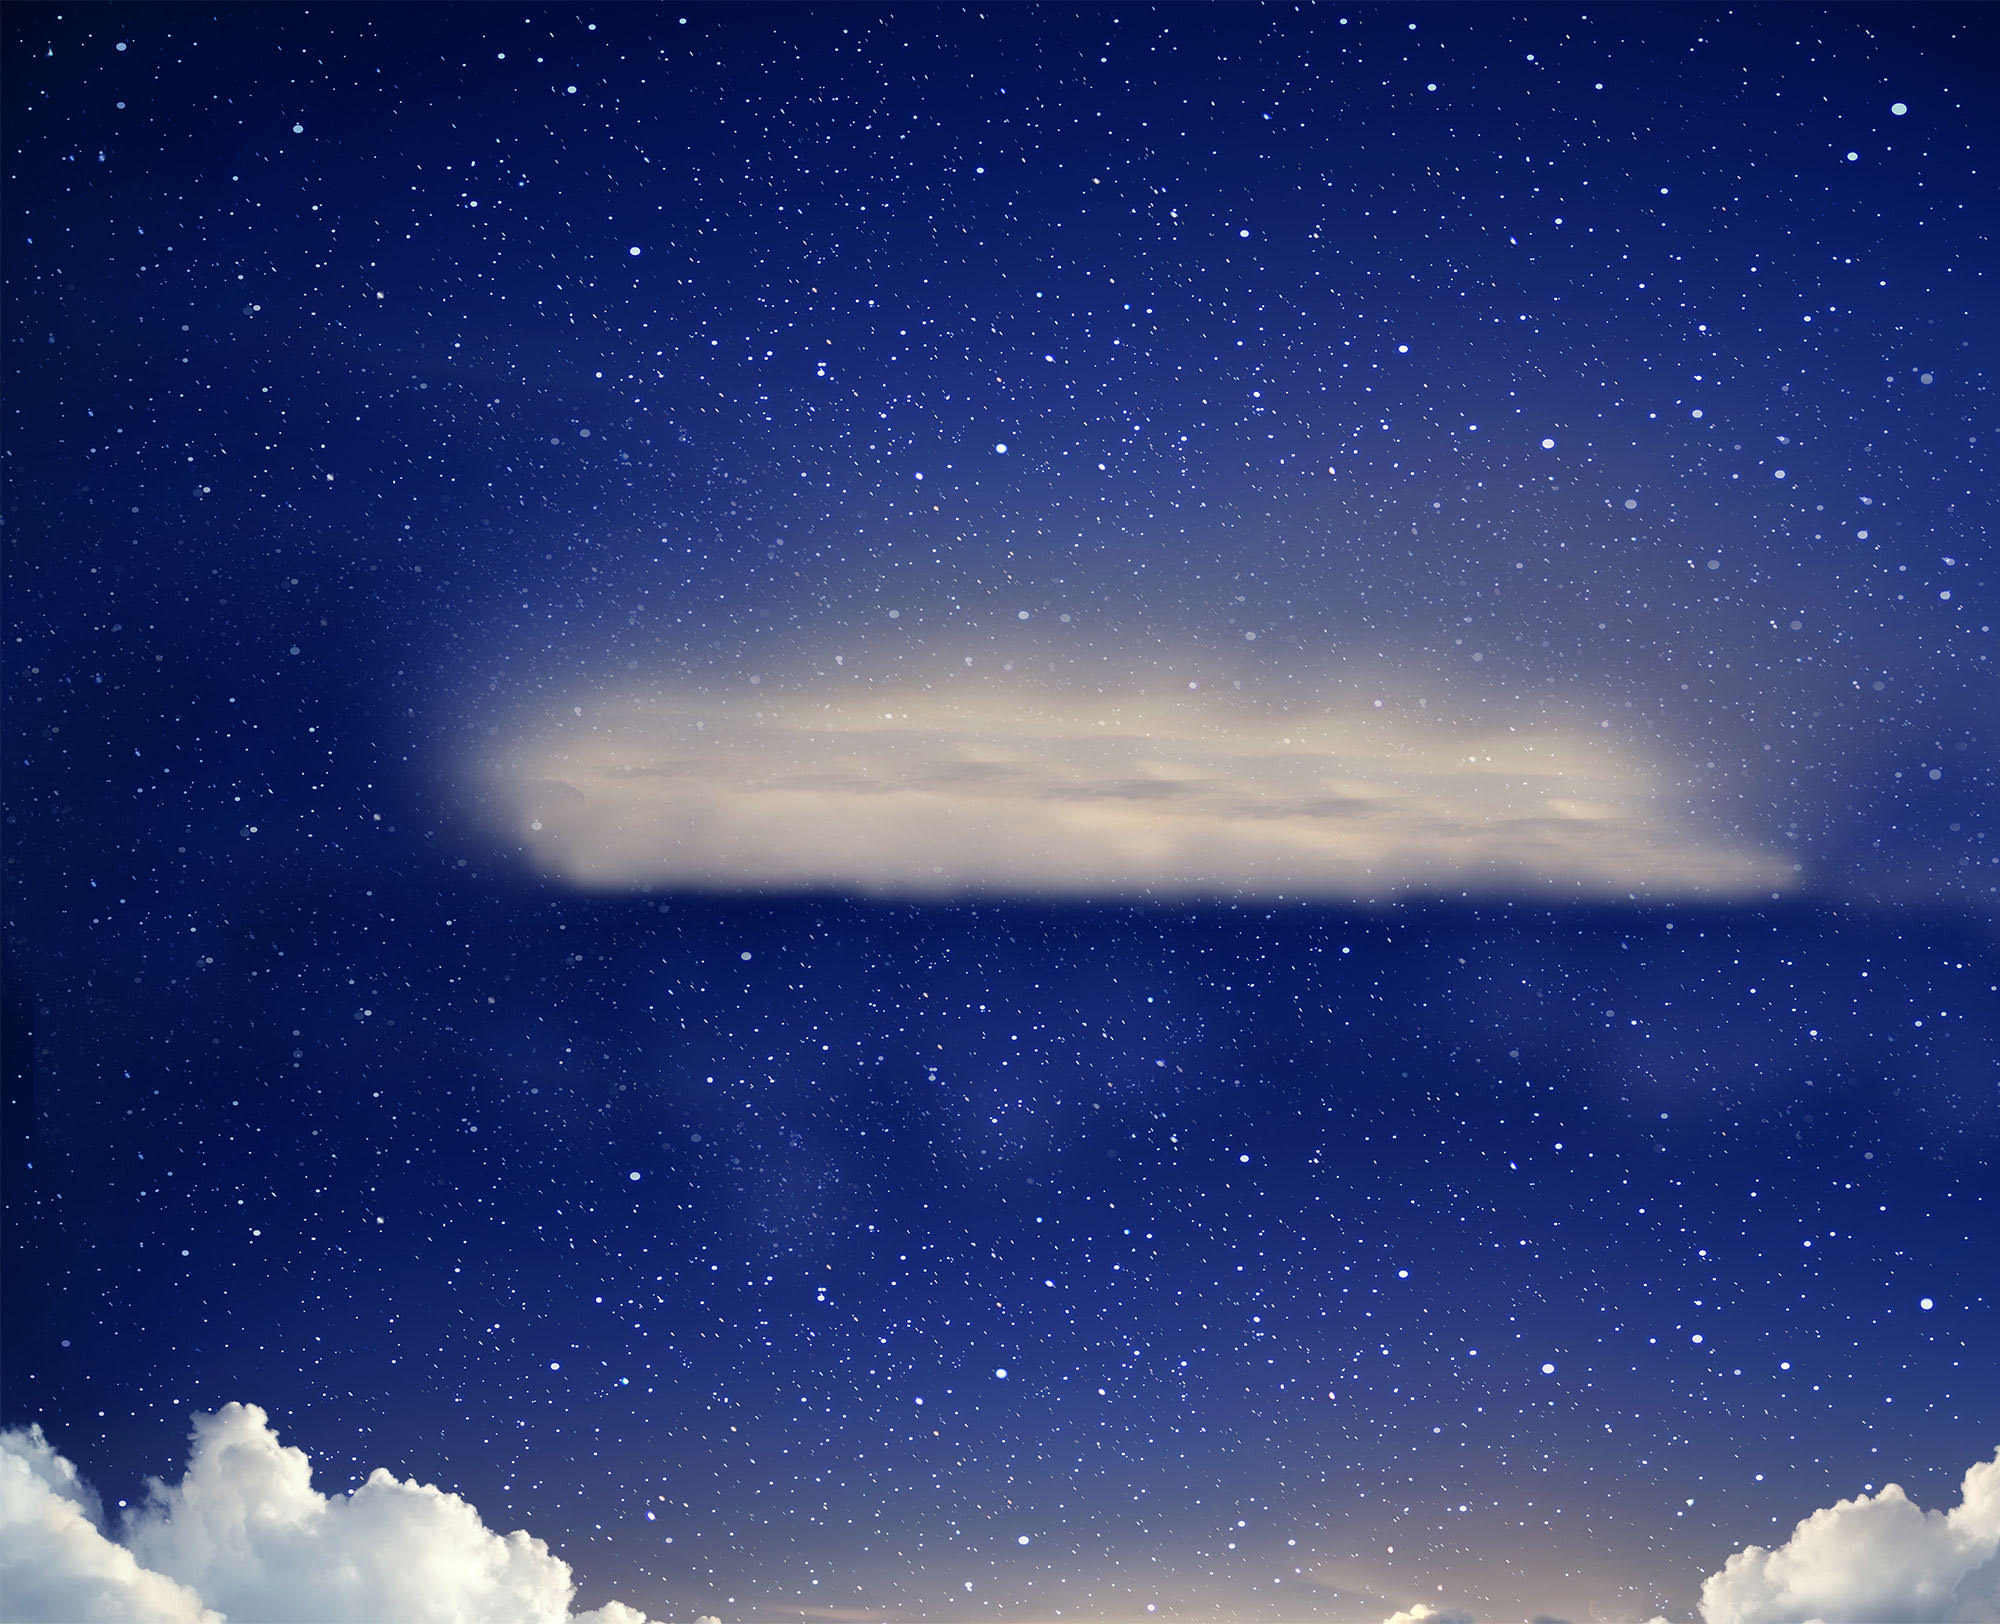
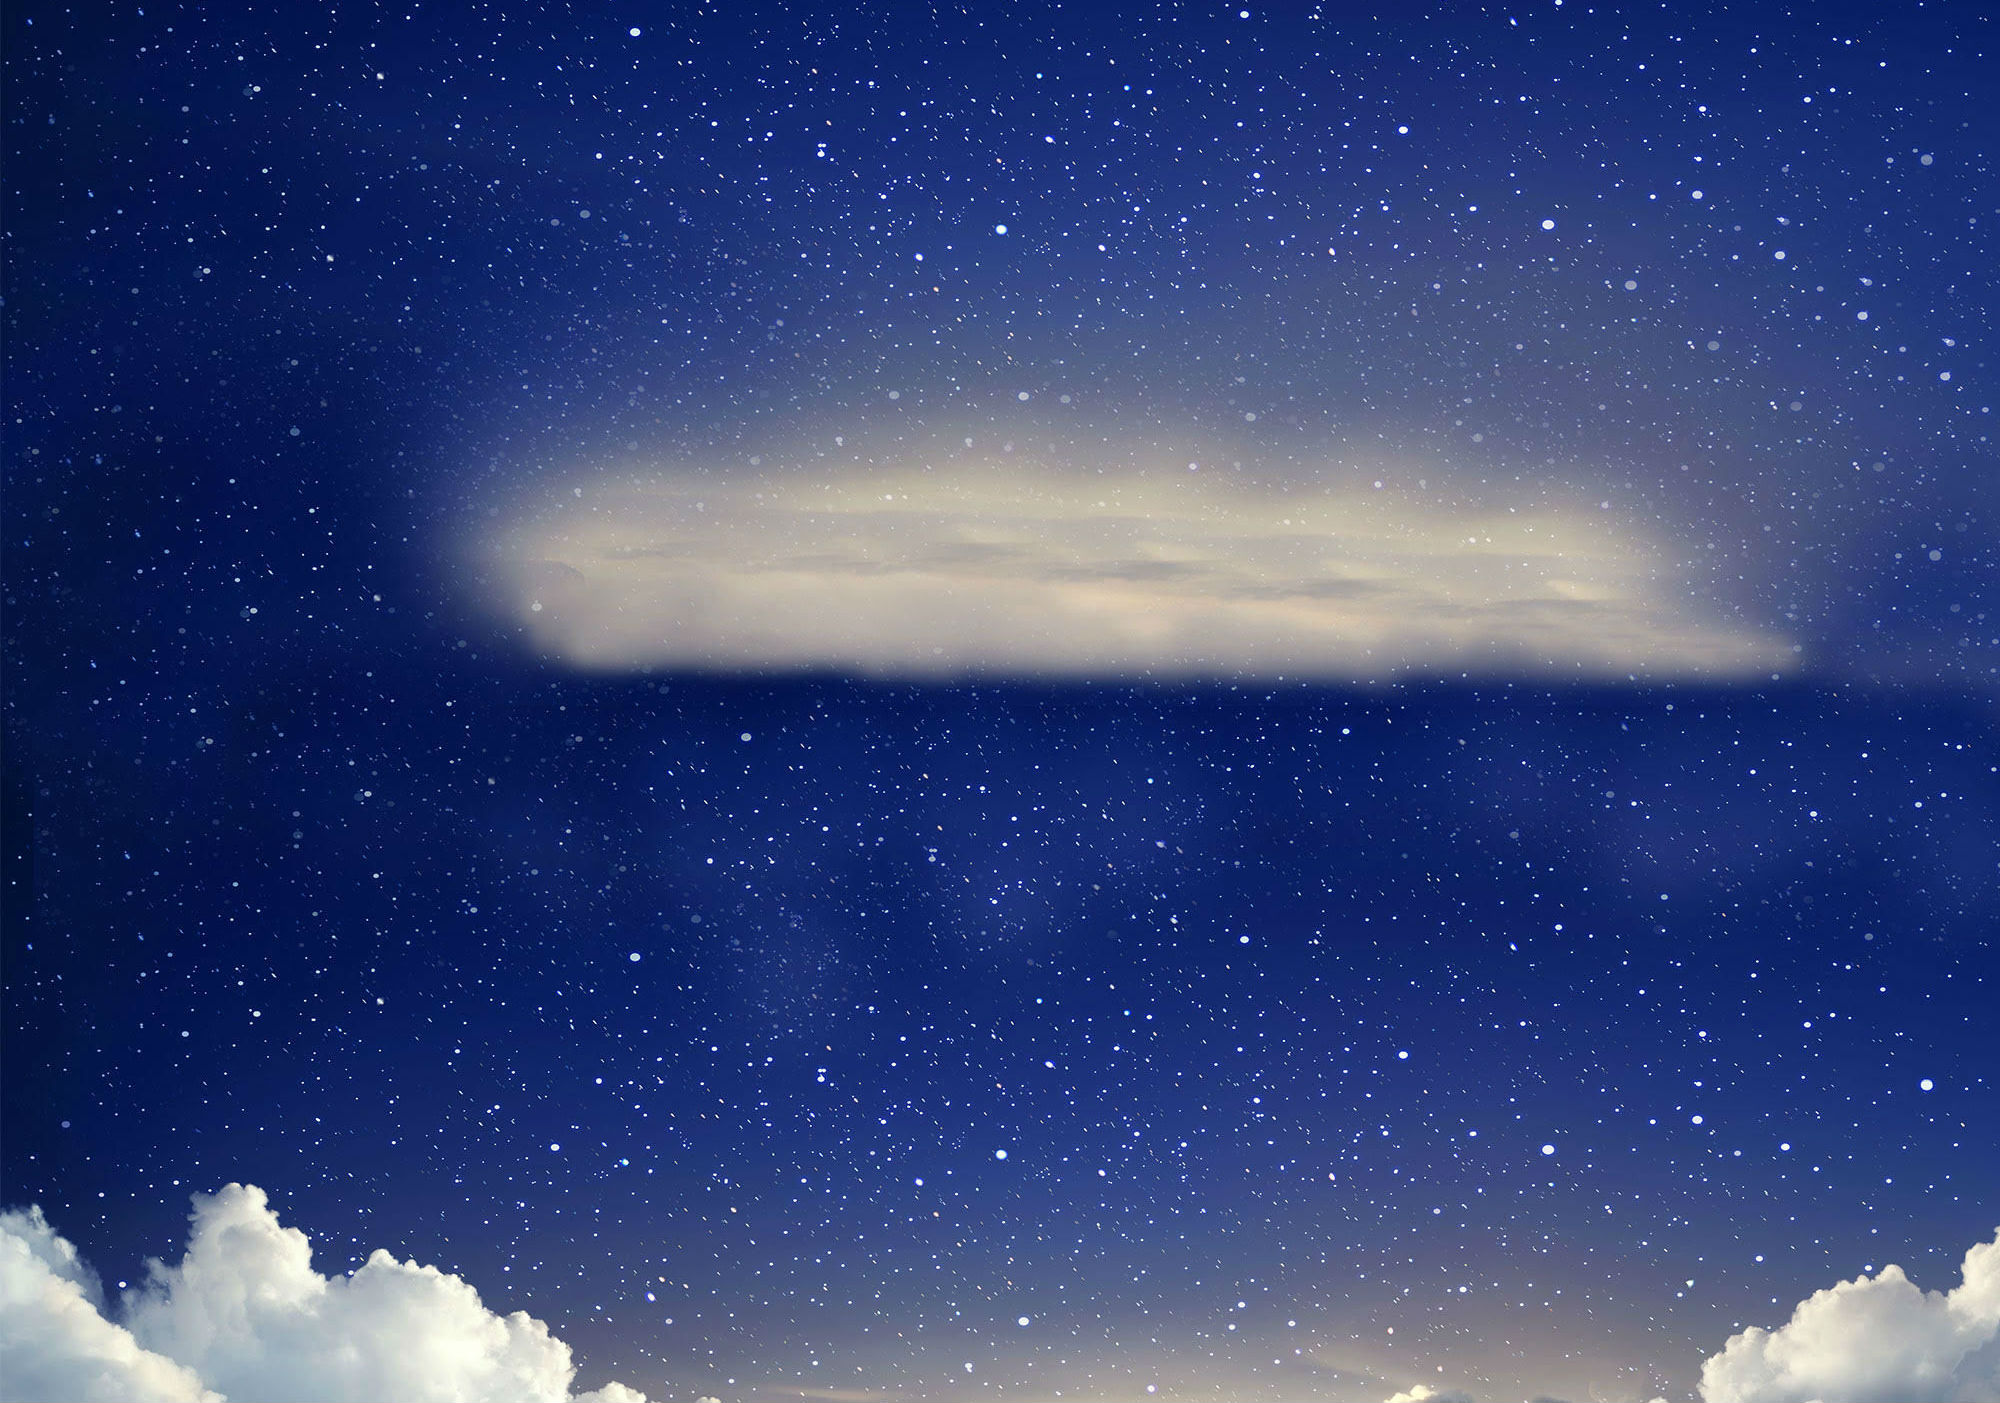
Primera parte primera sección

diff --git a/index.html b/index.html
@@ -22,17 +22,28 @@
     </ul>
   </nav>
 
-<!-- Sección desafío, primera sección -->
-<div id="section_1">
-  <div class="subSection1">
+  <!-- Sección desafío, primera sección -->
+  <div id="section_1">
+    <!-- Subsección logo -->
+    <div class="subSection1">
       <div class="row contenedorLogosInicio">
         <div class="col-xs-12 col-md-12 text-center">
-          <img class="img-responsive logoDesafio" src="https://d1dxeoyimx6ufk.cloudfront.net/uploads/NA5/OD7908/2A09963A.png" alt="Logo desafío">
+          <img class="img-responsive logoDesafio" src="https://d1dxeoyimx6ufk.cloudfront.net/uploads/NA5/OD7908/58545757.png" alt="Logo desafío">
         </div>
       </div>
+    </div>
+    <!-- Subsección texto -->
+    <div class="subSection10">
       <div class="row">
-        <div class=" col-xs-12 col-md-12">
-          <p class="parrafoSeccion">Lorem ipsum dolor sit amet, consectetur adipisicing elit. Repellat enim, atque veritatis explicabo reiciendis libero. Illo atque corrupti obcaecati animi amet, numquam odio saepe. Aut cumque expedita dolor placeat possimus asperiores perspiciatis sit provident rem maiores, quaerat rerum iure! Fuga saepe iure delectus sunt sed repudiandae laboriosam eos alias! Consequatur.</p>
+        <div class=" col-xs-push-1 col-xs-10 col-md-push-1 col-md-10 fondoBlanco">
+          <p class="parrafoSeccion">Banco del Pacífico continúa innovando y esta vez te invita a ser parte del <strong>“Desafío Imagina BdP”</strong>, challenge de innovación que busca ideas disruptivas que apunten a resolver necesidades e intereses que actualmente tienen los millennials en Ecuador. Nuestro desafío contará con 2 públicos para capturar ideas, colaboradores del Banco del Pacífico y diferentes audiencias externas.</p>
+          <p class="tituloMilennial">¿QUIÉNES SON LOS MILLENNIALS?</p>
+          <p class="parrafoSeccion">Hoy en día son la generación de consumidores más grande e influyente en todo el mundo, amantes de la tecnología, de llevar un estilo de vida fresco y sin complicaciones. Comprende a las personas que han nacido en el periodo de 1982 hasta el 2000, pero más allá de segmentarlos por su edad presentan características comunes de pensamiento.</p>
+          <div class="contenedorParticipar text-center">
+            <a class="participaAhora" href="/desafio/submit" target="_blank">PARTICIPAR AHORA</a>
+          <a class="descargarBases" href="javascript:void(0)" target="_blank">DESCARGAR BASES</a>
+          </div>
+          
         </div>
       </div>
     </div>

diff --git a/Assets/style.css b/Assets/style.css
@@ -8,7 +8,7 @@
 body {
   padding: 0;
   margin: 0;
-  letter-spacing: 1.5px;
+  letter-spacing: 1px;
 }
 
 nav#navigation {
@@ -70,21 +70,69 @@ Estilos home
 
 /*Sección desafío, primera sección*/
 #section_1 .subSection1 {
-  background-image: url(https://d1dxeoyimx6ufk.cloudfront.net/uploads/NA5/OD7908/914DE87A.jpg);
+  background-image: url(https://d1dxeoyimx6ufk.cloudfront.net/uploads/NA5/OD7908/A6A1B798.jpg);
   background-size: cover;
   background-repeat: no-repeat;
   background-position: top center;
  
 }
 
+#section_1 .subSection10 {
+  margin-top: -400px;
+  background-image: url(https://d1dxeoyimx6ufk.cloudfront.net/uploads/NA5/OD7908/452A94C6.png);
+  background-size: cover;
+  background-repeat: no-repeat;
+  background-position: top center;
+}
+
 .logoDesafio{
-  margin-top: 15%;
-  width:40%;
+  margin-top: 5%;
+  width:60%;
+  margin-bottom: 20%;
+}
+.subSection10 .fondoBlanco{
+  color:#043B84;
+  background: rgba(252,247,247,0.3);
+  padding:3%;
+  margin-top:-5%;
+  margin-bottom:10%;
+}
+
+.fondoBlanco .parrafoSeccion{
+  text-align: justify;
+}
+
+.tituloMilennial{
+  font-size:30px;
+  text-align:center;
+  font-weight: bold;
+  padding:4% 0;
 }
 
 .parrafoSeccion {
   font-size: 18px;
   text-align: center;
+}
+.participaAhora:link, .descargarBases:link, .participaAhora:hover .descargarBases:hover, .participaAhora:visited .descargarBases:visited, .participaAhora:active, .descargarBases:active, a {
+  text-decoration:none;
+  color:#fff;
+}
+.participaAhora{
+  background-color:#036BAD;
+}
+.descargarBases{
+  background-color:#073589;
+}
+
+.participaAhora, .descargarBases{
+  font-size:18px;
+  padding:10px;
+  margin:10px;
+}
+
+.contenedorParticipar {
+    padding-top: 3%;
+    padding-bottom: 1%;
 }
 
 .subSection1 .parrafoSeccion {
@@ -674,12 +722,27 @@ h2.linea2:before {
 
 @media screen and (max-width: 750px) {
   .logoDesafio{
-    margin-top: 15%;
-    width:40%;
+    margin-top: 5%;
+    width:90%;
+    margin-bottom: 20%;
+}
+  #section_1 .subSection10 {
+    margin-top: -320px;
   }
   .editRow {
     padding: 60px 1% 2% 1%;
   }
+.slider .caption {
+    padding: 5px 35px 5px 53px;
+}
+
+.left {
+    left: 3px;
+}
+
+.right {
+  right: 3px;
+}
   #section_3 .linkAParticipando, #section_3 .descargarBases{
     font-size: 15px;
     display: block;
